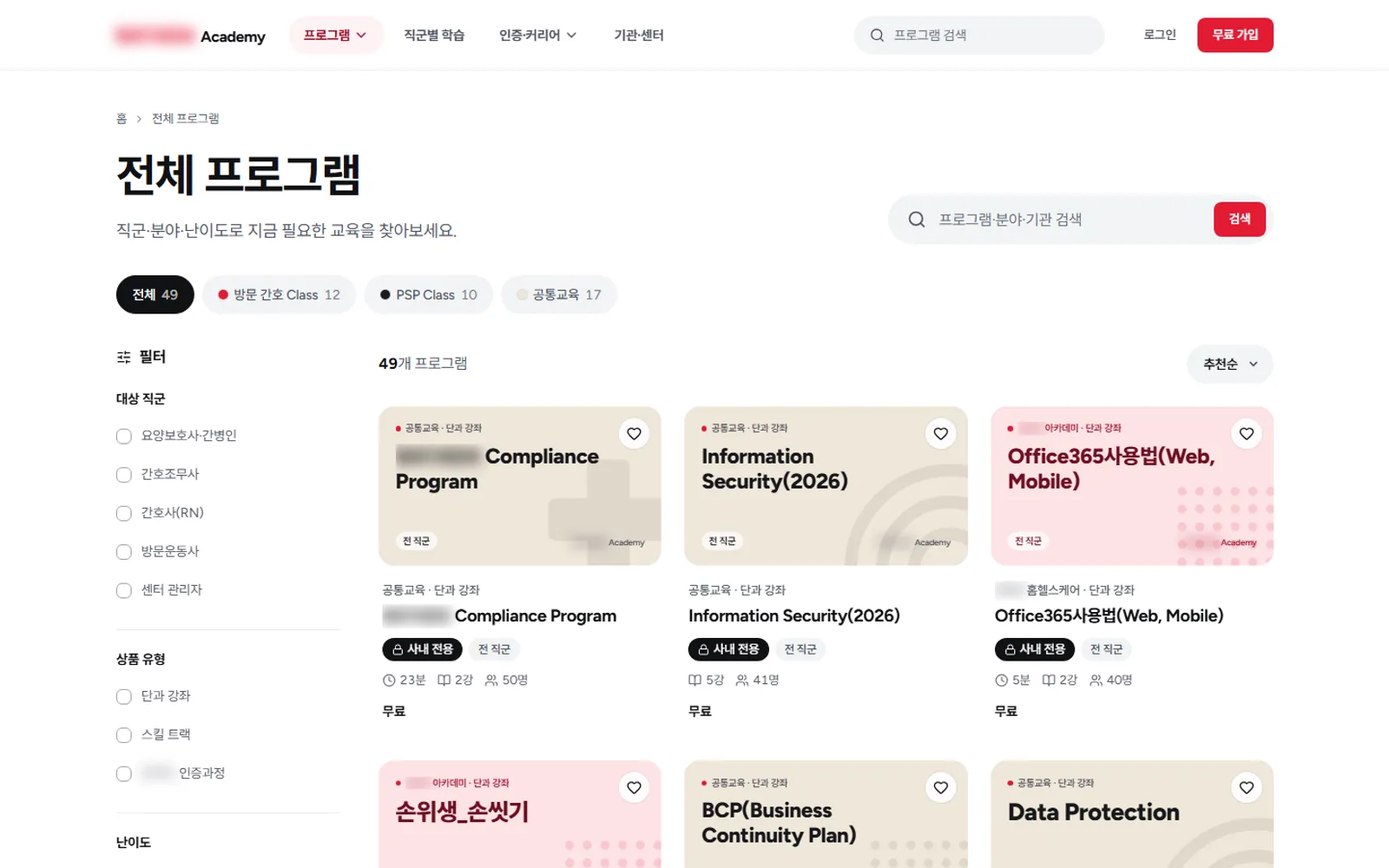
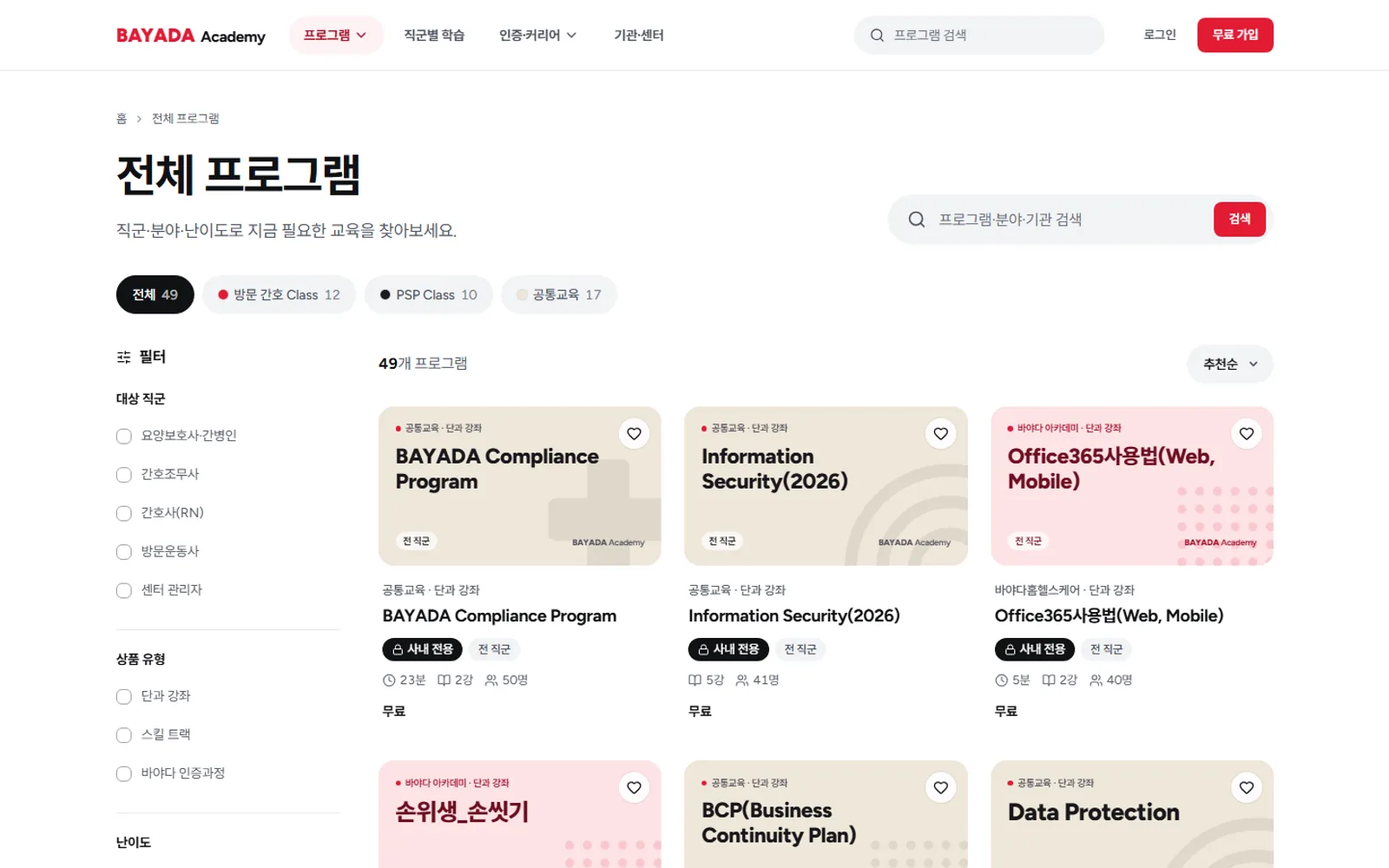
feat(work): link and brand the caryoung and bayada entries
Owner approved publishing the branded domains (2026-11-10).

- dealer-settlement -> "카영 딜러 정산 플랫폼": main url www.caryoung.co.kr,
  apps linked to www / admin / dealer.caryoung.co.kr (replaces
  client-roan-six.vercel.app).
- homecare-platform -> "BAYADA 홈헬스케어 플랫폼": status live, main url and
  web / academy / admin apps linked to the EC2 sslip hosts.
- Replace brand-masked captures with unmasked ones: live re-captures of the
  caryoung landing and BAYADA academy, admin captures with the logo restored.
  Personal data (account names, test inquirer names) stays blurred.
- Update memory/inventory with the approval and the six URLs.

diff --git a/lib/portfolio.ts b/lib/portfolio.ts
@@ -500,27 +500,29 @@ const projectList: readonly PortfolioProject[] = [
   },
   {
     slug: "dealer-settlement",
-    name: "자동차보험 딜러 정산 플랫폼",
+    name: "카영 딜러 정산 플랫폼",
     category: "client",
     years: [2026, 2026],
     description:
-      "소개 웹 · 운영 관리자 · 딜러용 클라이언트, 세 개 앱으로 딜러의 계약·추천·수수료 정산을 다루는 플랫폼. 실서비스 운영 중.",
+      "카영의 다이렉트 자동차보험 딜러를 위한 소개 웹 · 운영 관리자 · 딜러용 클라이언트, 세 개 앱으로 계약·추천·수수료 정산을 다루는 플랫폼. 실서비스 운영 중.",
     disciplines: ["Website", "Admin", "Dealer web", "Settlement"],
     status: "live",
-    url: "https://client-roan-six.vercel.app/",
+    url: "https://www.caryoung.co.kr/",
     apps: [
       {
         name: "웹 · 소개 사이트",
         summary: "플랫폼 소개, 딜러 앱·관리자 소개 섹션, 제휴 보험사 안내와 문의를 담은 공개 사이트.",
+        url: "https://www.caryoung.co.kr/",
       },
       {
         name: "관리자",
-        summary: "딜러·계약·갱신·정산·추천인·리포트를 다루는 운영 어드민. 엑셀 가져오기·내보내기와 역할별 권한.",
+        summary: "딜러·계약·갱신·정산·추천인·리포트를 다루는 운영 어드민. 엑셀 가져오기·내보내기와 역할별 권한. 링크는 로그인 화면입니다.",
+        url: "https://admin.caryoung.co.kr/",
       },
       {
         name: "클라이언트 · 딜러 웹",
         summary: "딜러가 내 계약·수익·추천을 확인하는 모바일 웹. 로그인 전에는 샘플 데이터로 미리 볼 수 있습니다.",
-        url: "https://client-roan-six.vercel.app/",
+        url: "https://dealer.caryoung.co.kr/",
       },
     ],
     coverKind: "screenshot",
@@ -528,8 +530,8 @@ const projectList: readonly PortfolioProject[] = [
     gallery: [
       { src: "/work/dealer-settlement/01.webp", alt: "클라이언트(딜러 웹) 모바일 3장 - 추천 수수료 온보딩, 샘플 데이터 홈 대시보드, 딜러 등록 신청 양식", caption: "클라이언트 · 딜러 모바일 웹 (샘플 데이터)" },
       { src: "/work/dealer-settlement/02.webp", alt: "클라이언트(딜러 웹)의 내 계약 목록, 상태·정산 필터 바텀시트, 갱신 예정월 필터 화면 (테스트 데이터)", caption: "클라이언트 · 계약 목록과 필터 (테스트 데이터)" },
-      { src: "/work/dealer-settlement/03.webp", alt: "웹(소개 사이트) 첫 화면 - '다이렉트 자동차보험 영업의 미래를 설계합니다' 헤드라인과 플랫폼 알아보기 버튼 (브랜드 로고 가림)", caption: "웹 · 소개 사이트 첫 화면 (브랜드 가림)" },
-      { src: "/work/dealer-settlement/04.webp", alt: "웹(소개 사이트)의 딜러 앱 소개 섹션 - '내 수익을 한눈에' 문구 옆 딜러 대시보드 미리보기 (브랜드·연락처 가림)", caption: "웹 · 딜러 앱 소개 섹션" },
+      { src: "/work/dealer-settlement/03.webp", alt: "웹(소개 사이트) 첫 화면 - '다이렉트 자동차보험 영업의 미래를 설계합니다' 헤드라인과 플랫폼 알아보기 버튼", caption: "웹 · 소개 사이트 첫 화면" },
+      { src: "/work/dealer-settlement/04.webp", alt: "웹(소개 사이트)의 딜러 앱 소개 섹션 - '내 수익을 한눈에' 문구 옆 딜러 대시보드 미리보기", caption: "웹 · 딜러 앱 소개 섹션" },
       { src: "/work/dealer-settlement/05.webp", alt: "관리자 계약 관리 화면 - 계약상태·정산상태 필터, 엑셀 내보내기·가져오기, 계약 목록 (로컬 실행, 가상 데이터)", caption: "관리자 · 계약 관리 (로컬 실행, 가상 데이터)" },
       { src: "/work/dealer-settlement/06.webp", alt: "관리자 정산 관리 화면 - 미정산 건수 요약 카드와 정산 대상 목록 (로컬 실행, 가상 데이터)", caption: "관리자 · 정산 대상 목록 (로컬 실행, 가상 데이터)" },
     ],
@@ -553,7 +555,7 @@ const projectList: readonly PortfolioProject[] = [
         "Tailwind CSS",
       ],
       overview:
-        "세 개 앱으로 구성된 자동차보험 딜러 정산 플랫폼입니다. 회사와 플랫폼을 알리는 소개 웹, 운영팀이 딜러·계약·정산을 관리하는 관리자, 딜러가 자신의 계약·추천 실적·수수료를 확인하는 클라이언트(딜러 모바일 웹)로 나뉘고, 관리자와 클라이언트는 하나의 DB 를 함께 씁니다. 로그인 전에는 샘플 데이터로 화면을 미리 볼 수 있고, 운영 중인 서비스로 현업 수정요청을 반영하며 고도화하고 있습니다.",
+        "세 개 앱으로 구성된 카영의 자동차보험 딜러 정산 플랫폼입니다. 회사와 플랫폼을 알리는 소개 웹, 운영팀이 딜러·계약·정산을 관리하는 관리자, 딜러가 자신의 계약·추천 실적·수수료를 확인하는 클라이언트(딜러 모바일 웹)로 나뉘고, 관리자와 클라이언트는 하나의 DB 를 함께 씁니다. 로그인 전에는 샘플 데이터로 화면을 미리 볼 수 있고, 운영 중인 서비스로 현업 수정요청을 반영하며 고도화하고 있습니다.",
       problem:
         "엑셀로 관리되던 대량의 계약과 딜러별 수수료·추천 수당을 사람이 대조해야 해 누락과 불일치가 생기기 쉬웠습니다.",
       solution:
@@ -570,36 +572,40 @@ const projectList: readonly PortfolioProject[] = [
   },
   {
     slug: "homecare-platform",
-    name: "홈헬스케어 통합 플랫폼",
+    name: "BAYADA 홈헬스케어 플랫폼",
     category: "client",
     years: [2026, 2026],
     description:
-      "방문간호·돌봄 기업을 위한 고객용 웹 · 교육 아카데미 · 통합 관리자, 세 개 앱을 하나로 잇는 플랫폼.",
+      "홈헬스케어 기업 BAYADA(바야다)의 고객용 웹 · 교육 아카데미 · 통합 관리자, 세 개 앱을 하나로 잇는 플랫폼.",
     disciplines: ["Website", "LMS", "Admin"],
-    status: "development",
+    status: "live",
+    url: "https://54-116-157-4.sslip.io/ko",
     apps: [
       {
         name: "웹 · 고객용 사이트",
         summary: "연령대별 서비스 탐색, 센터 찾기·상담 신청, 멤버십, 홈헬스케어 용품 쇼핑몰, 블로그를 담은 공개 사이트.",
+        url: "https://54-116-157-4.sslip.io/ko",
       },
       {
         name: "아카데미 · 교육 플랫폼",
         summary: "직군별 교육 프로그램 탐색과 수강, 진도·퀴즈, 수료증 발급·진위 확인, 기관 단위 수강 배정.",
+        url: "https://academy.54-116-157-4.sslip.io/ko",
       },
       {
         name: "관리자 · 통합 어드민",
-        summary: "아카데미 프로그램 승인·회원·수강·인증 심사와 웹사이트 문의 CRM·콘텐츠를 한 화면에서 전환해 관리.",
+        summary: "아카데미 프로그램 승인·회원·수강·인증 심사와 웹사이트 문의 CRM·콘텐츠를 한 화면에서 전환해 관리. 링크는 로그인 화면입니다.",
+        url: "https://admin.54-116-157-4.sslip.io/",
       },
     ],
     coverKind: "screenshot",
-    cover: { src: "/work/homecare-platform/cover.webp", alt: "웹(고객용 사이트) 화면 - 대표 서비스 Skilled Nursing 소개와 맞춤 요양·호스피스 등 서비스 카드 (고객사 로고 제외)" },
+    cover: { src: "/work/homecare-platform/cover.webp", alt: "웹(고객용 사이트) 화면 - 대표 서비스 Skilled Nursing 소개와 맞춤 요양·호스피스 등 서비스 카드" },
     gallery: [
       { src: "/work/homecare-platform/01.webp", alt: "웹(고객용 사이트) 연령대 맞춤 서비스 찾기 - 노인·성인·소아 케어 탭과 동행 돌봄·방문 건강관리·호스피스 서비스 카드", caption: "웹 · 연령대별 서비스 찾기" },
       { src: "/work/homecare-platform/02.webp", alt: "웹(고객용 사이트) 모바일 화면 3장 - 대표 서비스, 멤버십 혜택, 파트너 쇼핑몰(제휴처명 제외)", caption: "웹 · 모바일" },
-      { src: "/work/homecare-platform/03.webp", alt: "아카데미 첫 화면 - '돌봄의 전문성, 커리어가 되다' 헤드라인과 지금 많이 듣는 프로그램 순위 (기관명 가림)", caption: "아카데미 · 첫 화면 (기관명 가림)" },
-      { src: "/work/homecare-platform/04.webp", alt: "아카데미 전체 프로그램 목록 - 분야 탭, 대상 직군·상품 유형 필터, 프로그램 카드 (기관명 가림)", caption: "아카데미 · 전체 프로그램" },
-      { src: "/work/homecare-platform/05.webp", alt: "관리자 아카데미 대시보드 - 승인 대기·신규 수강·수료 요약 카드, 프로그램 상태별 막대, 처리 대기 목록 (계정·기관명 가림)", caption: "관리자 · 아카데미 대시보드 (QA 캡처, 계정·기관명 가림)" },
-      { src: "/work/homecare-platform/06.webp", alt: "관리자 웹사이트 대시보드 - 신규·진행 중 문의 카드, 최근 문의, 홈페이지 콘텐츠 현황 (테스트 문의, 이름 가림)", caption: "관리자 · 웹사이트 대시보드 (테스트 문의)" },
+      { src: "/work/homecare-platform/03.webp", alt: "아카데미 첫 화면 - '돌봄의 전문성, 커리어가 되다' 헤드라인과 지금 많이 듣는 프로그램 순위", caption: "아카데미 · 첫 화면" },
+      { src: "/work/homecare-platform/04.webp", alt: "아카데미 전체 프로그램 목록 - 분야 탭, 대상 직군·상품 유형 필터, 프로그램 카드", caption: "아카데미 · 전체 프로그램" },
+      { src: "/work/homecare-platform/05.webp", alt: "관리자 아카데미 대시보드 - 승인 대기·신규 수강·수료 요약 카드, 프로그램 상태별 막대, 처리 대기 목록 (QA 캡처, 계정명 가림)", caption: "관리자 · 아카데미 대시보드 (QA 캡처, 계정명 가림)" },
+      { src: "/work/homecare-platform/06.webp", alt: "관리자 웹사이트 대시보드 - 신규·진행 중 문의 카드, 최근 문의, 홈페이지 콘텐츠 현황 (테스트 문의, 문의자 이름·계정명 가림)", caption: "관리자 · 웹사이트 대시보드 (테스트 문의)" },
     ],
     detail: {
       oneLiner: "방문간호·돌봄 기업의 웹·교육·관리를 세 개 앱으로",
@@ -622,7 +628,7 @@ const projectList: readonly PortfolioProject[] = [
         "Docker",
       ],
       overview:
-        "방문간호·요양·호스피스 등 홈헬스케어 서비스를 운영하는 기업을 위한 플랫폼입니다. 고객용 웹사이트, 요양보호사·간호 인력을 위한 교육 아카데미, 두 서비스를 함께 운영하는 통합 관리자, 세 개 앱을 하나의 모노레포로 설계·개발했고, 세 앱 모두 서버에 배포해 검수하고 있습니다.",
+        "방문간호·요양·호스피스 등 홈헬스케어 서비스를 운영하는 BAYADA(바야다)를 위한 플랫폼입니다. 고객용 웹사이트, 요양보호사·간호 인력을 위한 교육 아카데미, 두 서비스를 함께 운영하는 통합 관리자, 세 개 앱을 하나의 모노레포로 설계·개발했고, 세 앱 모두 서버에 배포해 접속해 볼 수 있습니다.",
       problem:
         "서비스 안내, 상담 접수, 인력 교육, 멤버십이 서로 다른 채널에 흩어져 있어 이용자 여정과 운영 데이터가 끊겨 있었습니다.",
       solution:

diff --git a/.fry/MEMORY.md b/.fry/MEMORY.md
@@ -4,8 +4,9 @@
 - 링크는 "우리 레포에서 배포된 것"이 확인된 라이브 사이트만 건다 (상세 페이지의 "사이트 방문" 버튼도 url 있을 때만).
 - 연도는 각 레포 git log 첫/마지막 커밋 연도. 지표·고객사·성과·사용자 수를 지어내지 않는다. stats 스트립은 데이터에서 계산.
   - 기획 문서의 목표 수치(정푸드 매출·거래처 수 등), 로컬 시드 값(더빙고 "만들어진 버전 0")은 카피에 쓰지 않는다. 클라이언트 자사 사이트에 공개된 문구(보령 "23년 업력")만 예외.
-- 미공개/권한 불확실 클라이언트는 일반명으로 기재 (자동차보험 딜러 정산 플랫폼 = clients/caryoung, 홈헬스케어 통합 플랫폼 = clients/bayada, AI 의사결정 시스템 제안서 = clients/nousbo).
-- caryoung 은 2026-10 오너 지시로 live + url(client-roan-six.vercel.app) 공개. 링크 타이틀에 브랜드 '카영'이 보이므로 브랜드 노출은 허용됐지만 카드 이름은 일반명 유지. 레포 루트의 dealer-lookup/dashboard-staff 캡처는 실명·전화번호 실데이터라 사용 금지 → 비로그인 '샘플 데이터' 프리뷰(홍길동/12가1234)만 캡처.
+- 미공개/권한 불확실 클라이언트는 일반명으로 기재 (AI 의사결정 시스템 제안서 = clients/nousbo 등).
+- **카영(caryoung)·바야다(bayada) 브랜드 공개 승인 (2026-11-10 오너)**: 오너가 브랜드 도메인 링크를 공개하기로 해 두 고객은 실명·로고 노출 허용. 이름 '카영 딜러 정산 플랫폼'(dealer-settlement), 'BAYADA 홈헬스케어 플랫폼'(homecare-platform), 둘 다 live. 승인 URL 6개(이 외 배포 링크 금지): 카영 웹 https://www.caryoung.co.kr/ (메인 url) · 관리자 https://admin.caryoung.co.kr/ · 클라이언트 https://dealer.caryoung.co.kr/ / 바야다 홈페이지 https://54-116-157-4.sslip.io/ko (메인 url) · 아카데미 https://academy.54-116-157-4.sslip.io/ko · 관리자 https://admin.54-116-157-4.sslip.io/. 브랜드 공개 후에도 개인정보(실명·개인 전화/메일·관리자 계정명·테스트 문의자 이름·실고객/계약 데이터)는 계속 가리고, 검증 안 된 실적 수치는 우리 지표처럼 보이지 않게 크롭. 관리자 화면은 시드/QA 캡처만(운영 관리자 로그인 금지).
+- caryoung 은 2026-10 오너 지시로 live + url(client-roan-six.vercel.app) 공개 → 2026-11-10 dealer.caryoung.co.kr 로 교체(client-roan-six 는 더 이상 링크 안 함). 레포 루트의 dealer-lookup/dashboard-staff 캡처는 실명·전화번호 실데이터라 사용 금지 → 비로그인 '샘플 데이터' 프리뷰(홍길동/12가1234)만 캡처.
 - THOUSAND 는 오너 확인 결과 실제 클라이언트 작업(develop-thousand/web) → category client, live. 단 라이브 푸터가 'Design concept·실제 주문/결제 없음'이라 카피에 '결제 없이 구매 흐름 시연' 명시, 주문·매출 실적처럼 쓰지 말 것.
 - 노출 금지 링크: brochure-wine(타이틀에 '누보' 고객명), admin-farm-theta(타이틀에 개인명 '심재&오유마켓', 로그인만). 엔트리는 유지·무링크.
 - adrock-driving: 운전면허 PLUS(Play, com.adrock.driverlicense300) 저장소 android.drive 에는 오너 커밋이 없음(leemj/이미지/jdk). 오너 커밋은 web.dororo(보일러플레이트·웹뷰 통신)와 web.drivingplus(2026-11 오너 업로드 압축본, 2025-02~04 학과왕 응모·당첨 웹뷰·보상형 광고 브리지·Amplitude) → role/features 는 이 범위로만. app.drivingplus.me 는 같은 레포 계열이지만 이후 타인이 바꾼 학원찾기 사이트라 링크로 쓰지 않음. Play 스토어 스크린샷 중 '1000만이 선택', '1,601,032,242건' 등 수치 이미지는 사용 금지.
@@ -51,7 +52,7 @@
 
 ## 개인정보/식별 규칙 (하드)
 - 실명·전화번호·회원 명단·실데이터 어드민·토큰·실제 Discord/카톡 화면 금지. 블러하거나 제외. 데모 데이터 어드민은 OK.
-- caryoung/bayada/nousbo 는 브랜드명·로고·고유 통계(예: 50년/33,000+/22개국)·견적 금액이 보이면 안 됨. homecare 는 2026-11-09 오너 규칙(아래)에 따라 로고 없는 예전 실캡처(git 5cb20bb 의 cover·01-04)를 복원해 쓴다.
+- nousbo 는 브랜드명·로고·견적 금액이 보이면 안 됨. caryoung/bayada 는 2026-11-10 부터 브랜드명·로고 허용(위 승인 참고), 단 고유 통계(예: 50년/33,000+/22개국, '3,000명 이상의 에이전트')는 여전히 캡처 제외.
 - farm-sales 서비스명에 개인 실명이 들어 있어 전 이미지에서 블러. seoul-home 공고의 사업자 개인명 블러. webtoon 푸터(사업자 정보) 크롭.
 - setflow 라이브 캡처는 실사용자 작성자명이 보여 미사용 → build/shots 데모 데이터 캡처 사용.
 - v8-cal-lab(hptunermap) 데스크톱 헤더의 'CALL 010-…' 사업장 번호는 블러(1800px 캡처 기준 x1100,y12,205x54). 푸터·CTA 프레임은 번호가 보여 미사용.
@@ -87,17 +88,17 @@
 
 ## homecare-platform(바야다) 3개 앱 = pluck-dev/bayada 모노레포 apps/{web,academy,admin}
 - 배포: AWS EC2(개발·시연용, 무료 플랜) Caddy + sslip 호스트 — 웹 https://54-116-157-4.sslip.io/ko, 아카데미 https://academy.54-116-157-4.sslip.io/ko, 관리자 https://admin.54-116-157-4.sslip.io(로그인). 우리 레포 deploy/ec2 로 배포한 빌드(bayada 레포 .fry/MEMORY.md 'AWS 운영').
-- **링크 안 검**: 호스트명엔 브랜드가 없지만 페이지 타이틀·헤더에 'BAYADA' 가 그대로 노출 → bayada 브랜드 노출 금지 규칙 위반. 또 서버 이전 예정(IP 기반 주소)이라 곧 깨진다. 오너가 링크 공개를 승인하고 정식 도메인이 생기면 apps[].url 에 추가.
+- 2026-11-10 오너 승인으로 세 앱 모두 링크(project.url = 웹). 단 IP 기반 sslip 주소라 **서버 이전 시 깨진다** → 이전·정식 도메인 생기면 project.url·apps[].url 4곳을 함께 바꿀 것.
 - Vercel bayada.vercel.app(spacePluck/bayada) 은 타이틀 'Create Next App' 의 옛 빌드 + 호스트명에 브랜드 → 사용 금지.
-- 캡처: 웹 = 기존 git 5cb20bb 실캡처(01·02, cover). 아카데미 = EC2 라이브 비로그인 화면(03 홈, 04 전체 프로그램), 브랜드 텍스트 DOM 블러. 관리자 = 레포 apps/admin/.screens/redesign 의 QA 캡처(05 = 01-academy-dashboard 상단 900px, 06 = 06-website-dashboard), 로고·'b-academy' 계정명·최근 활동 대상·테스트 문의자 이름('김바야다')·'(bayada 기업 사이트)' 픽셀 블러. 운영 관리자 로그인 금지(로컬 bayada_v2 도 WP 실회원 데이터).
-- 아카데미 라이브 카드 썸네일은 이미지가 아니라 DOM 이라 텍스트 블러가 썸네일 안 'BAYADA Academy' 까지 잡는다. '숫자로 보는 아카데미'(수료자·발급 건수) 섹션은 실적 수치라 캡처 제외.
+- 캡처: 웹 = 기존 git 5cb20bb 실캡처(01·02, cover — 로고가 프레임 밖일 뿐 가린 것 없음). 아카데미 = EC2 라이브 비로그인 화면(03 홈, 04 /ko/courses), 2026-11-10 블러 없이 재캡처. 관리자 = 레포 apps/admin/.screens/redesign 의 QA 캡처(05 = 01-academy-dashboard 상단 900px, 06 = 06-website-dashboard), 로고는 그대로, 'b-academy' 계정명·최근 활동 대상·테스트 문의자 이름('김바야다','이요양')만 픽셀 블러. 운영 관리자 로그인 금지(로컬 bayada_v2 도 WP 실회원 데이터).
+- '숫자로 보는 아카데미'(수료자·발급 건수) 섹션은 실적 수치라 캡처 제외.
 
 ## dealer-settlement(카영) 3개 앱 = dev-caryoung/{landing, caryoung(admin), client}
-- 웹(소개) = www.caryoung.co.kr (landing 레포, adrock_simjae 커밋, 타이틀 일치) → **호스트명에 브랜드**라 링크 안 검(오너 확인 대기). 캡처 03(히어로)·04(#dealer 딜러 앱 소개 섹션), 'CARYOUNG/카영'·전화·이메일 DOM 블러. '3,000명 이상의 에이전트'·제휴 보험사 전화번호 섹션은 캡처 제외.
-- 관리자 = admin-psi-amber-83.vercel.app(랜딩 링크 기준 운영, 로그인 화면) / 우리 팀 Vercel 의 admin-psi-ashen.vercel.app 도 같은 앱 → 로그인뿐이고 운영 실데이터라 링크·캡처 안 함. 캡처 05·06 = 레포 복사본(C:\Temp\pmrun\cy-admin, .env·실데이터 json 제거)을 임시 docker postgres(55433) + prisma seed.ts·scripts/seed-test-data.ts + 가상 계약 36건(DEMO-1000…, 가상 보험사 '가나손해보험' 등)으로 로컬 실행. NEXT_PUBLIC_DB_PROVIDER=prisma, Supabase 는 더미. admin/admin1234!(시드 계정). 끝나면 컨테이너 삭제.
-- 클라이언트 = client-roan-six.vercel.app(기존 승인 링크, apps[].url). 우리 팀 client 프로젝트(client-theta-gray)는 404.
+- 웹(소개) = www.caryoung.co.kr (landing 레포, adrock_simjae 커밋, 타이틀 일치) → 2026-11-10 링크 + 메인 url. 캡처 03(히어로)·04(#dealer 딜러 앱 소개 섹션) 블러 없이 재캡처(04 폰 목업의 '김카영/010-0000-0000' 은 가상 placeholder). '3,000명 이상의 에이전트'·제휴 보험사 전화번호 섹션은 캡처 제외.
+- 관리자 = 링크는 https://admin.caryoung.co.kr/ (로그인 화면, 2026-11-10 승인). 예전 Vercel 배포 admin-psi-amber-83 / admin-psi-ashen 은 링크 금지. 로그인 화면 왼쪽에 제휴 보험사 담당 번호·내부 공지 보드가 공개돼 있어 캡처 안 함. 캡처 05·06 = 레포 복사본(C:\Temp\pmrun\cy-admin, .env·실데이터 json 제거)을 임시 docker postgres(55433) + prisma seed.ts·scripts/seed-test-data.ts + 가상 계약 36건(DEMO-1000…, 가상 보험사 '가나손해보험' 등)으로 로컬 실행. NEXT_PUBLIC_DB_PROVIDER=prisma, Supabase 는 더미. admin/admin1234!(시드 계정). 끝나면 컨테이너 삭제.
+- 클라이언트 = https://dealer.caryoung.co.kr/ (2026-11-10, client-roan-six.vercel.app 대체). 우리 팀 client 프로젝트(client-theta-gray)는 404.
 - 함정: 레포의 admin 폴더 루트에 db_contracts_*.json·backup_contracts_* 등 **실계약 덤프**가 있다 → 복사 실행 시 반드시 지운다. 루트 docs/dealer-settlement-assets 캡처도 실데이터라 금지.
-- 기존 cover·01(클라이언트)은 'CARYOUNG/카영 딜러' 가 그대로 보인다(2026-10 오너 승인 범위). 새로 넣은 03-06 은 가렸다 → 통일 여부는 오너 확인.
+- 2026-11-10 통일: 05·06 은 블러 없는 원본 캡처(C:\Temp\pfx\raw\cya_*.png)의 좌상단 '카영' 로고 영역만 마스킹본에 합성(원본엔 Next dev 'N' 배지가 있어 전체를 쓰지 않음). 데이터는 가상 계약(DEMO-*, 강샘플·정데모 등).
 
 # Home 디자인 규칙: 상세페이지 흐름, AI 티 금지(eyebrow·장식 번호·밑줄), 한글 폰트
 
@@ -130,7 +131,7 @@
 
 ## 적용 사례 선택 (오너 규칙)
 - boryoung(보령항공여행사)은 서비스 섹션 적용 사례에 쓰지 않는다(오너: "아래에 배치해", AI 자동화→여행사도 불일치). 후보는 오너 우선순위 목록(칼가는곳·바야다·박스온·setflow·냉킵·대일·카영·드라이빙존·THOUSAND·빌라주차·젠더리빌·더빙고)에서 coverKind screenshot 우선.
-- 현재: 기획→homecare-platform(역할 기획·IA 설계, 이름은 일반명 유지), 디자인→thousand, 개발→knife-sharpening(칼가는곳 라이브), AI 자동화→webtoon-voice(AI 컷·대사 생성). point 문구는 portfolio.ts 의 description/overview/solution 에 있는 사실만.
+- 현재: 기획→homecare-platform(역할 기획·IA 설계), 디자인→thousand, 개발→knife-sharpening(칼가는곳 라이브), AI 자동화→webtoon-voice(AI 컷·대사 생성). point 문구는 portfolio.ts 의 description/overview/solution 에 있는 사실만.
 
 # Hero 3D + PLUCK 심볼: lib/pluck-scene.ts, 스크롤 수렴 p, 폴백, 브랜드 에셋 재생성
 

diff --git a/docs/portfolio-inventory.md b/docs/portfolio-inventory.md
@@ -20,8 +20,8 @@
 | 보령항공여행사 | `D:\dev\clients\boryoung` | 스크린샷 |
 | DVIA · 대일시스템 | `D:\dev\clients\web-daeilsys` | 스크린샷 |
 | 정푸드 관리 시스템 | jeongfood/admin (`clients\jeongfood`) | 브랜드 썸네일 + 설명 패널 |
-| 자동차보험 딜러 정산 플랫폼 | `clients\caryoung` 의 landing(웹)·admin(관리자)·client(딜러 웹) 3개 레포 (`_archive\cnc` 의 보험 CRM 은 같은 도메인의 이전 기획) | 스크린샷 (앱별 2장, 아래 '멀티 앱' 표) |
-| 홈헬스케어 통합 플랫폼 | `clients\bayada\bayada` = pluck-dev/bayada 모노레포 apps/web·academy·admin | 스크린샷 (앱별 2장, 아래 '멀티 앱' 표) |
+| 카영 딜러 정산 플랫폼 | `clients\caryoung` 의 landing(웹)·admin(관리자)·client(딜러 웹) 3개 레포 (`_archive\cnc` 의 보험 CRM 은 같은 도메인의 이전 기획) | 스크린샷 (앱별 2장, 아래 '멀티 앱' 표) |
+| BAYADA 홈헬스케어 플랫폼 | `clients\bayada\bayada` = pluck-dev/bayada 모노레포 apps/web·academy·admin | 스크린샷 (앱별 2장, 아래 '멀티 앱' 표) |
 | THOUSAND | develop-thousand/web | 스크린샷 |
 | ABROAD&BROAD | abroadnbroad/abroadnbroad | 스크린샷 |
 | V8 Cal Lab | carfixproj-Hwang/hptunermap | 스크린샷 |
@@ -142,12 +142,12 @@
 
 | 엔트리 | 앱 | 배포 | 링크 | 캡처 출처 |
 |---|---|---|---|---|
-| homecare-platform | 웹(고객용) | EC2 https://54-116-157-4.sslip.io/ko | 안 검(페이지 타이틀·헤더에 브랜드, 시연 서버) | git 5cb20bb 실캡처(cover, 01, 02) |
-| homecare-platform | 아카데미 | EC2 https://academy.54-116-157-4.sslip.io/ko | 안 검(같은 이유) | 라이브 비로그인 캡처 03·04, 브랜드 블러 |
-| homecare-platform | 관리자 | EC2 https://admin.54-116-157-4.sslip.io (로그인) | 안 검 | apps/admin/.screens/redesign QA 캡처 05·06, 로고·계정·테스트 이름 블러 |
-| dealer-settlement | 웹(소개) | https://www.caryoung.co.kr | 안 검(호스트명에 브랜드, 오너 확인 대기) | 라이브 캡처 03·04, 브랜드·전화·이메일 블러 |
-| dealer-settlement | 관리자 | admin-psi-amber-83.vercel.app (로그인) | 안 검(로그인뿐·운영 실데이터) | 로컬 실행 + 가상 데이터 05·06 |
-| dealer-settlement | 클라이언트(딜러 웹) | https://client-roan-six.vercel.app | 검(2026-10 승인) | 기존 cover, 01, 02 |
+| homecare-platform | 웹(고객용) | EC2 https://54-116-157-4.sslip.io/ko | 검(2026-11-10 오너 승인, 메인 url) | git 5cb20bb 실캡처(cover, 01, 02) |
+| homecare-platform | 아카데미 | EC2 https://academy.54-116-157-4.sslip.io/ko | 검(2026-11-10) | 라이브 비로그인 캡처 03·04, 블러 없음 |
+| homecare-platform | 관리자 | EC2 https://admin.54-116-157-4.sslip.io/ (로그인) | 검(2026-11-10) | apps/admin/.screens/redesign QA 캡처 05·06, 계정명·테스트 문의자 이름만 블러 |
+| dealer-settlement | 웹(소개) | https://www.caryoung.co.kr/ | 검(2026-11-10, 메인 url) | 라이브 캡처 03·04, 블러 없음 |
+| dealer-settlement | 관리자 | https://admin.caryoung.co.kr/ (로그인) | 검(2026-11-10). 옛 Vercel admin-psi-amber-83·admin-psi-ashen 은 링크 금지 | 로컬 실행 + 가상 데이터 05·06, 로고 노출 |
+| dealer-settlement | 클라이언트(딜러 웹) | https://dealer.caryoung.co.kr/ (client-roan-six.vercel.app 대체) | 검(2026-11-10) | 기존 cover, 01, 02 |
 
 ### 칼가는곳.com 검증 (2026-11-09, knife-sharpening)
 
